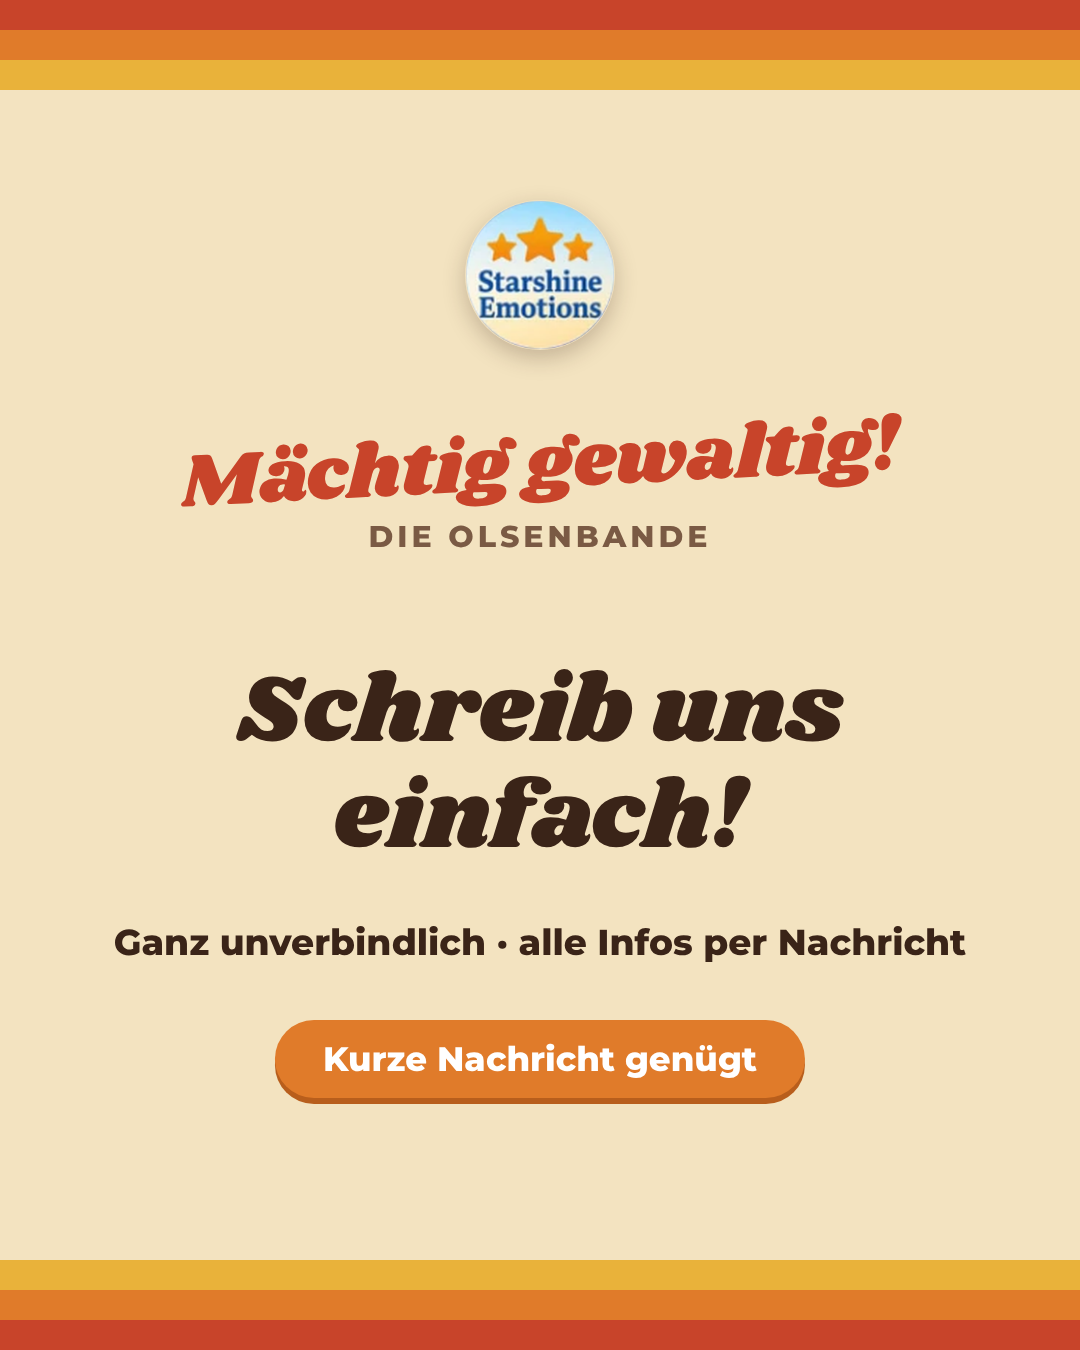
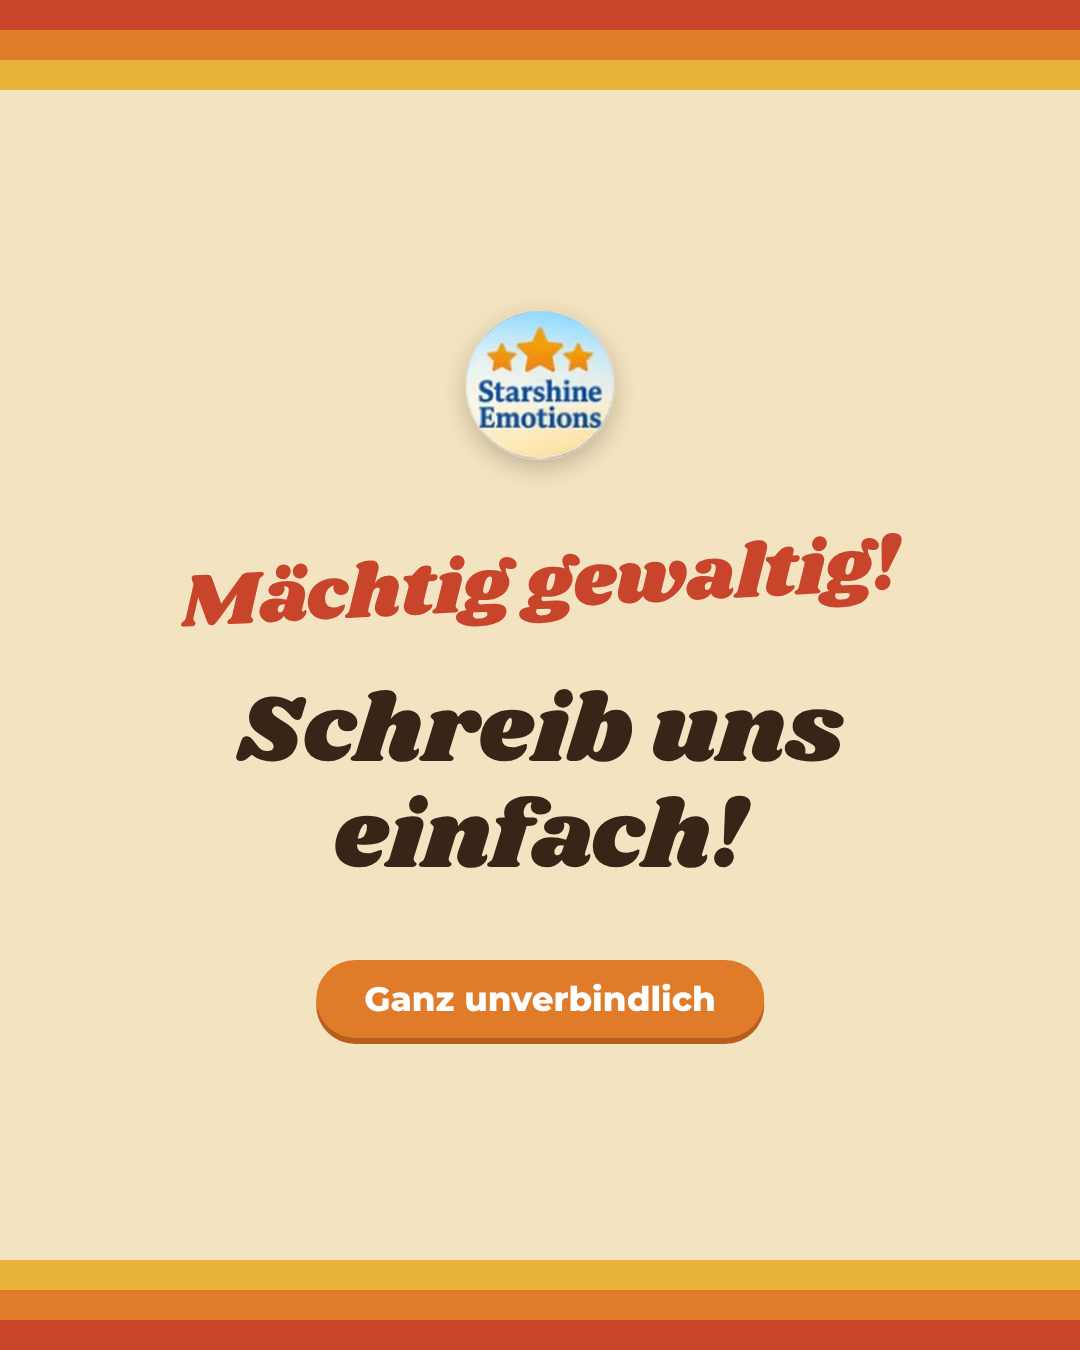
Simplify Olsenbande CTA slide
Claude-Session: https://claude.ai/code/session_01MYsT5PUrxmX4pbkuNXz2ag

Changed region(s): [[0.1528, 0.1244, 0.8556, 0.4667], [0.0917, 0.6844, 0.8861, 0.84], [0.2139, 0.4978, 0.7944, 0.6533]]

diff --git a/creatives/olsenbande/olsenbande-cta.html b/creatives/olsenbande/olsenbande-cta.html
@@ -4,18 +4,16 @@
 .ad{background:#F3E3C0;color:#3A2418;text-align:center}
 .stripes{position:absolute;left:0;right:0;top:0;height:90px;background:linear-gradient(180deg,#C8442A 0 30px,#E07B2A 30px 60px,#E9B23A 60px 90px)}
 .stripes.b{top:auto;bottom:0;background:linear-gradient(0deg,#C8442A 0 30px,#E07B2A 30px 60px,#E9B23A 60px 90px)}
-.lg{position:absolute;top:200px;left:50%;transform:translateX(-50%);width:150px;height:150px;border-radius:50%;box-shadow:0 8px 22px rgba(58,36,24,.25)}
-.q{position:absolute;top:410px;left:0;right:0;font-family:Shrikhand,serif;font-size:76px;color:#C8442A;transform:rotate(-3deg)}
+.lg{position:absolute;top:310px;left:50%;transform:translateX(-50%);width:150px;height:150px;border-radius:50%;box-shadow:0 8px 22px rgba(58,36,24,.25)}
+.q{position:absolute;top:530px;left:0;right:0;font-family:Shrikhand,serif;font-size:76px;color:#C8442A;transform:rotate(-3deg)}
 .q2{position:absolute;top:518px;left:0;right:0;font-family:Montserrat,sans-serif;font-weight:800;font-size:30px;letter-spacing:4px;color:#7A5A44}
-.h{position:absolute;top:660px;left:40px;right:40px;font-family:Shrikhand,serif;font-size:96px;line-height:1.1;color:#3A2418}
+.h{position:absolute;top:680px;left:40px;right:40px;font-family:Shrikhand,serif;font-size:96px;line-height:1.1;color:#3A2418}
 .sub{position:absolute;top:920px;left:0;right:0;font-family:Montserrat,sans-serif;font-weight:800;font-size:36px;color:#3A2418}
-.pill{position:absolute;top:1020px;left:50%;transform:translateX(-50%);white-space:nowrap;background:#E07B2A;color:#fff;font-family:Montserrat,sans-serif;font-weight:800;font-size:34px;padding:18px 48px;border-radius:50px;box-shadow:0 6px 0 #B85E1C}
+.pill{position:absolute;top:960px;left:50%;transform:translateX(-50%);white-space:nowrap;background:#E07B2A;color:#fff;font-family:Montserrat,sans-serif;font-weight:800;font-size:34px;padding:18px 48px;border-radius:50px;box-shadow:0 6px 0 #B85E1C}
 </style></head><body><div class="ad">
 <div class="stripes"></div><div class="stripes b"></div>
 <img class="lg" src="logo-starshine.png">
 <div class="q">Mächtig gewaltig!</div>
-<div class="q2">DIE OLSENBANDE</div>
 <div class="h">Schreib uns<br>einfach!</div>
-<div class="sub">Ganz unverbindlich · alle Infos per Nachricht</div>
-<div class="pill">Kurze Nachricht genügt</div>
+<div class="pill">Ganz unverbindlich</div>
 </div></body></html>
